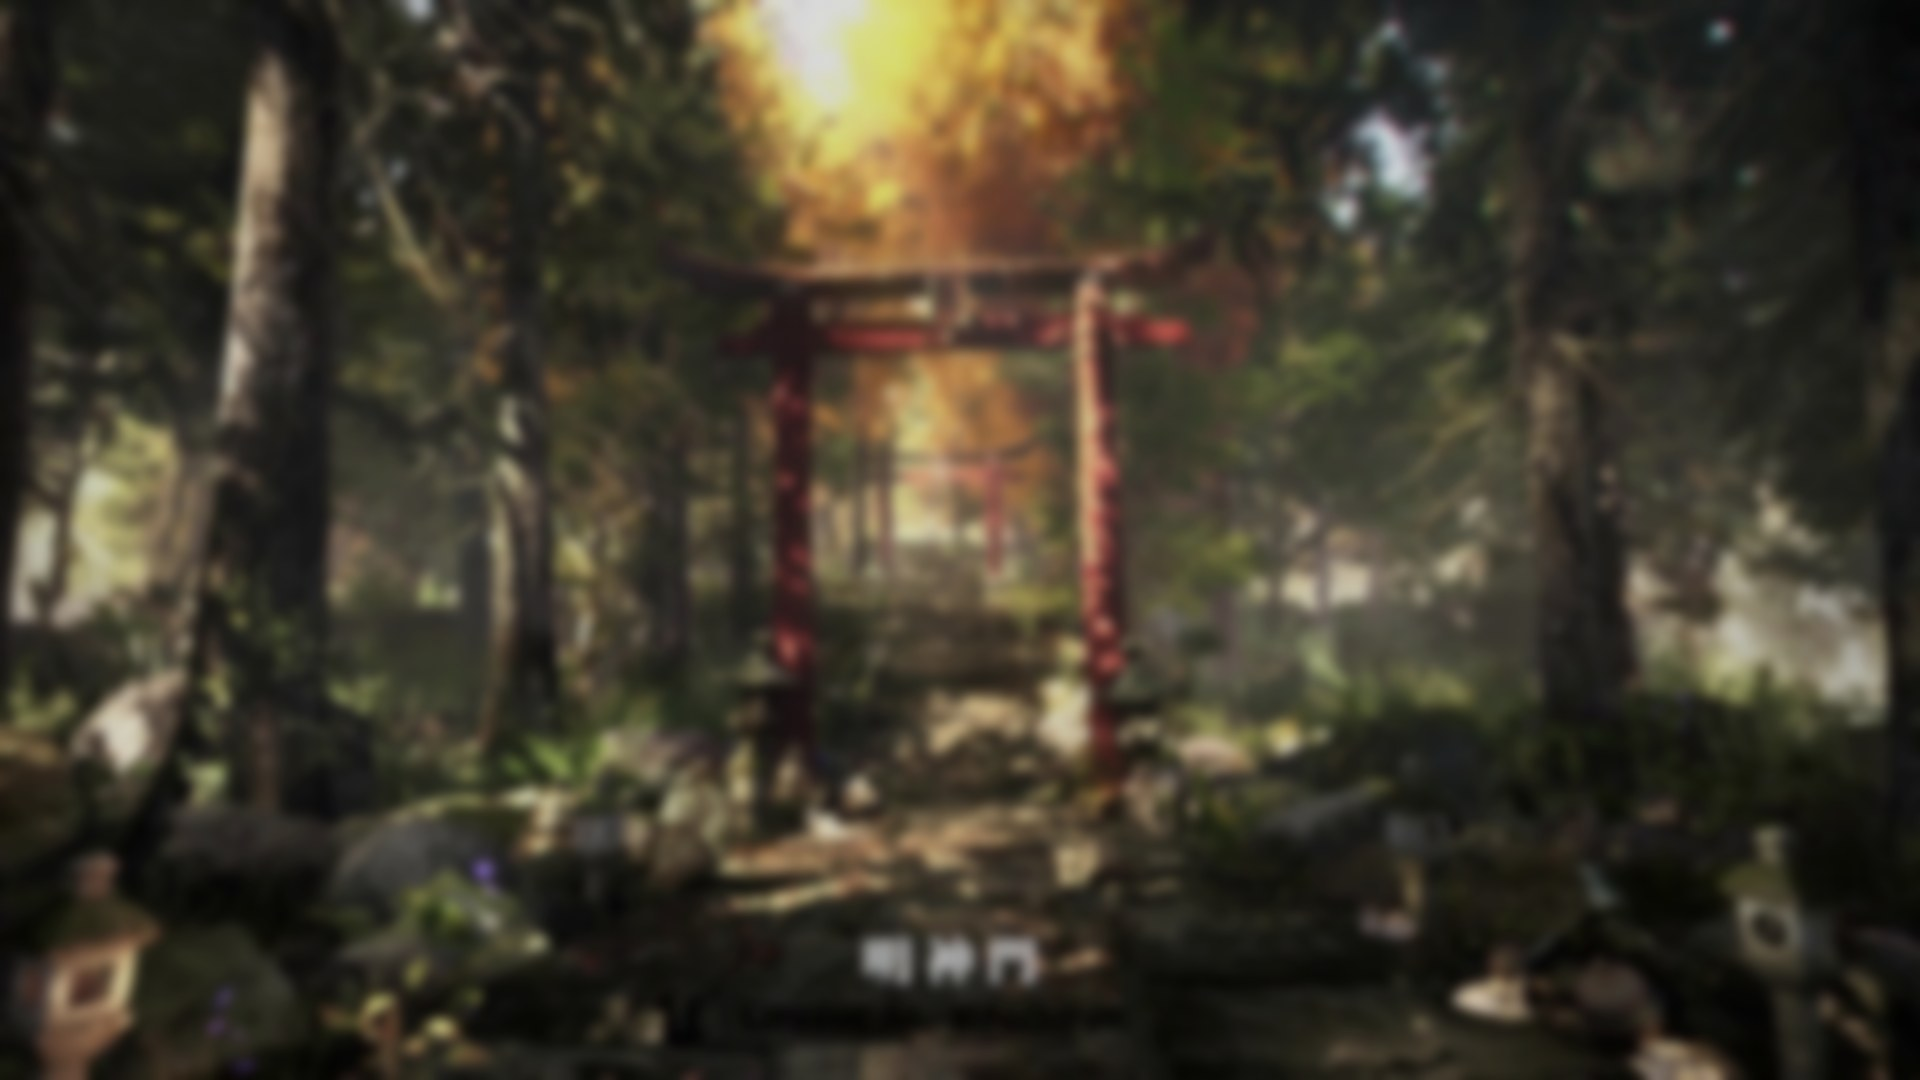
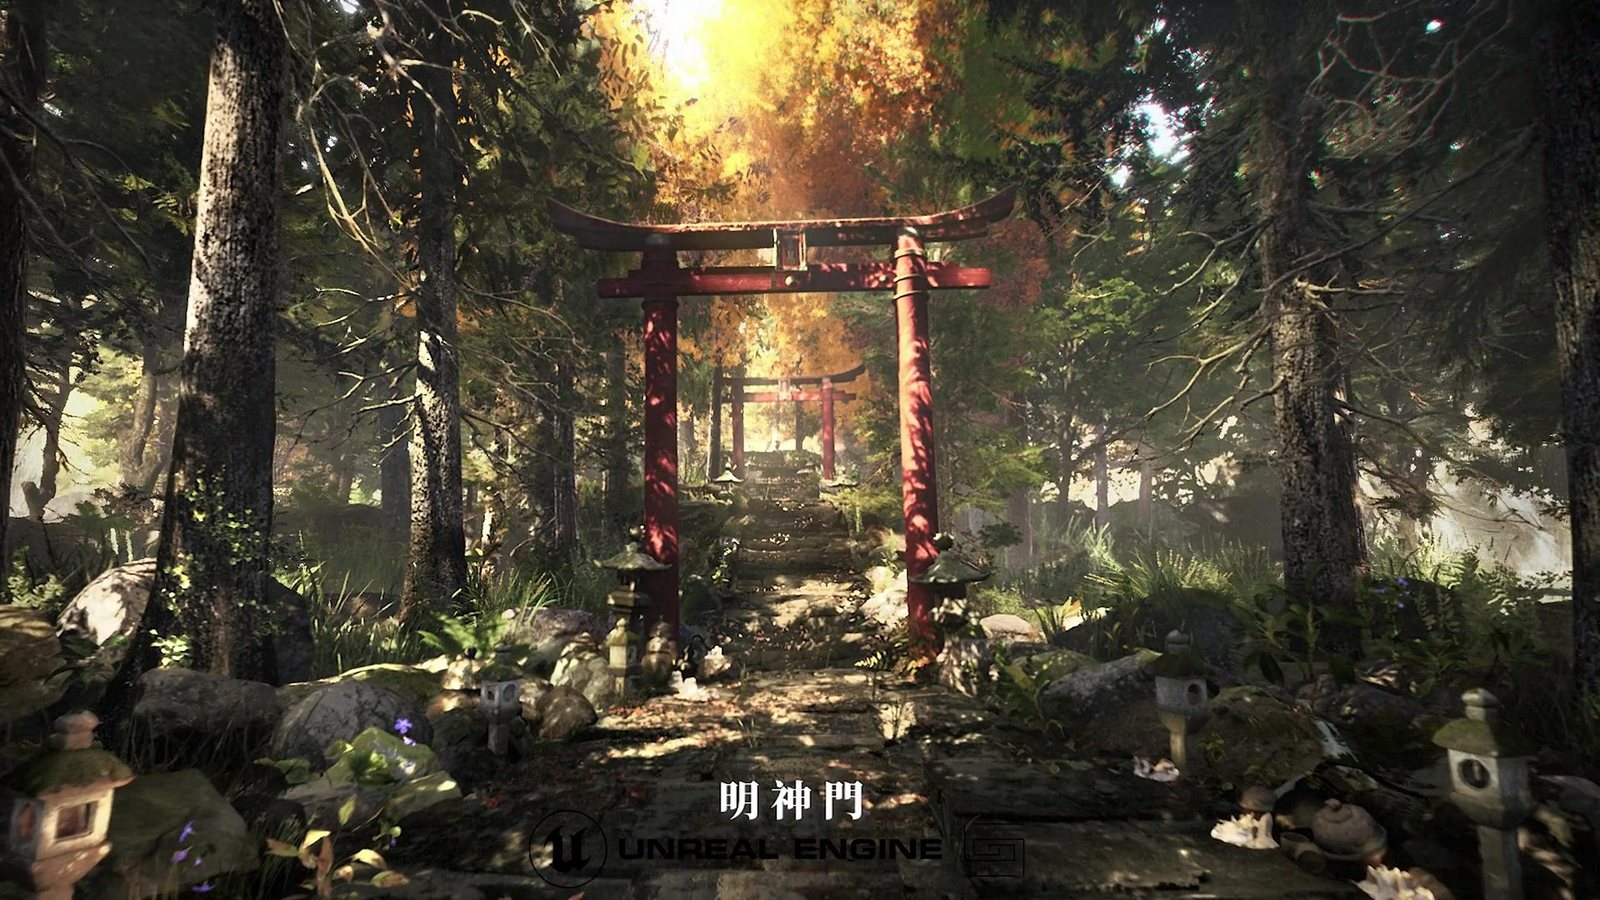
视频封面恢复清晰（重新取帧，两张过暗的做轻微提亮）；播放徽标改为局部径向压暗 + hover 微放大

diff --git a/index.html b/index.html
@@ -211,15 +211,11 @@ footer::before{content:'';position:absolute;left:0;top:0;width:100%;height:3px;b
 
 /* ===== 视频播放徽标 ===== */
 .proj-video{position:relative}
-.playb{position:absolute;left:50%;top:calc(50% - 18px);transform:translate(-50%,-50%);
-  width:66px;height:66px;border-radius:50%;background:rgba(16,9,6,.48);
-  border:1.5px solid rgba(255,255,255,.92);display:grid;place-items:center;
-  pointer-events:none;transition:opacity .25s,transform .25s;
-  -webkit-backdrop-filter:blur(2px);backdrop-filter:blur(2px);
-  box-shadow:0 6px 22px rgba(0,0,0,.45)}
+.playb{position:absolute;left:50%;top:calc(50% - 18px);transform:translate(-50%,-50%);width:66px;height:66px;border-radius:50%;background:rgba(14,8,5,.42);border:1.5px solid rgba(255,255,255,.94);display:grid;place-items:center;pointer-events:none;transition:opacity .25s,transform .25s,border-color .2s;-webkit-backdrop-filter:blur(1px);backdrop-filter:blur(1px);box-shadow:0 0 0 16px rgba(10,6,4,.13),0 0 0 42px rgba(10,6,4,.09),0 0 90px 46px rgba(10,6,4,.20),0 8px 26px rgba(0,0,0,.45)}
 .playb::before{content:'';border-style:solid;border-width:11px 0 11px 19px;
   border-color:transparent transparent transparent #fff;margin-left:5px}
 .proj-video.playing .playb{opacity:0;transform:translate(-50%,-50%) scale(.82)}
+.proj-video:hover .playb{border-color:#fff;transform:translate(-50%,-50%) scale(1.06)}
 @media (max-width:720px){.playb{width:52px;height:52px;top:calc(50% - 14px)}
   .playb::before{border-width:9px 0 9px 15px;margin-left:4px}}
 </style>
@@ -272,7 +268,7 @@ footer::before{content:'';position:absolute;left:0;top:0;width:100%;height:3px;b
       <figure class="shot"><img src="assets/qz_2x2_4.jpg" data-gallery="g1" loading="lazy" alt="教堂废墟 · 外景废墟"></figure>
     </div>
     <div class="proj-video">
-      <video src="assets/qz_showcase_1080p.mp4" poster="assets/qz_video_poster.jpg?v=3" controls preload="none" playsinline></video>
+      <video src="assets/qz_showcase_1080p.mp4" poster="assets/qz_video_poster.jpg?v=5" controls preload="none" playsinline></video>
       <span class="playb" aria-hidden="true"></span>
       <div class="vnote">实机演示 · 26 秒</div>
     </div>
@@ -305,7 +301,7 @@ footer::before{content:'';position:absolute;left:0;top:0;width:100%;height:3px;b
       <figure class="shot"><img src="assets/xdcj_2x2_4.jpg" data-gallery="g5" loading="lazy" alt="场景 · 通道"></figure>
     </div>
     <div class="proj-video">
-      <video src="assets/xdcj_1440.mp4" poster="assets/xdcj_poster.jpg?v=4" controls preload="none" playsinline></video>
+      <video src="assets/xdcj_1440.mp4" poster="assets/xdcj_poster.jpg?v=5" controls preload="none" playsinline></video>
       <span class="playb" aria-hidden="true"></span>
       <div class="vnote">场景片段 · 43 秒</div>
     </div>
@@ -347,7 +343,7 @@ footer::before{content:'';position:absolute;left:0;top:0;width:100%;height:3px;b
       <figure class="shot"><img src="assets/cinema4.jpg" data-gallery="g4" data-i="13" loading="lazy" alt="蓝色能量特效"></figure>
     </div>
     <div class="proj-video">
-      <video src="assets/sos_1080.mp4" poster="assets/sos_poster.jpg?v=3" controls preload="none" playsinline></video>
+      <video src="assets/sos_1080.mp4" poster="assets/sos_poster.jpg?v=5" controls preload="none" playsinline></video>
       <span class="playb" aria-hidden="true"></span>
       <div class="vnote">《SOS》· 发电站 · 33 秒</div>
     </div>
@@ -355,7 +351,7 @@ footer::before{content:'';position:absolute;left:0;top:0;width:100%;height:3px;b
       <figure class="shot"><img src="assets/shenshe.jpg" data-gallery="g4" loading="lazy" alt="明神门 · 鸟居石径"></figure>
     </div>
     <div class="proj-video">
-      <video src="assets/msm_1080.mp4" poster="assets/msm_poster.jpg?v=3" controls preload="none" playsinline></video>
+      <video src="assets/msm_1080.mp4" poster="assets/msm_poster.jpg?v=5" controls preload="none" playsinline></video>
       <span class="playb" aria-hidden="true"></span>
       <div class="vnote">《明神门》· 场景演示 · 11 秒</div>
     </div>
